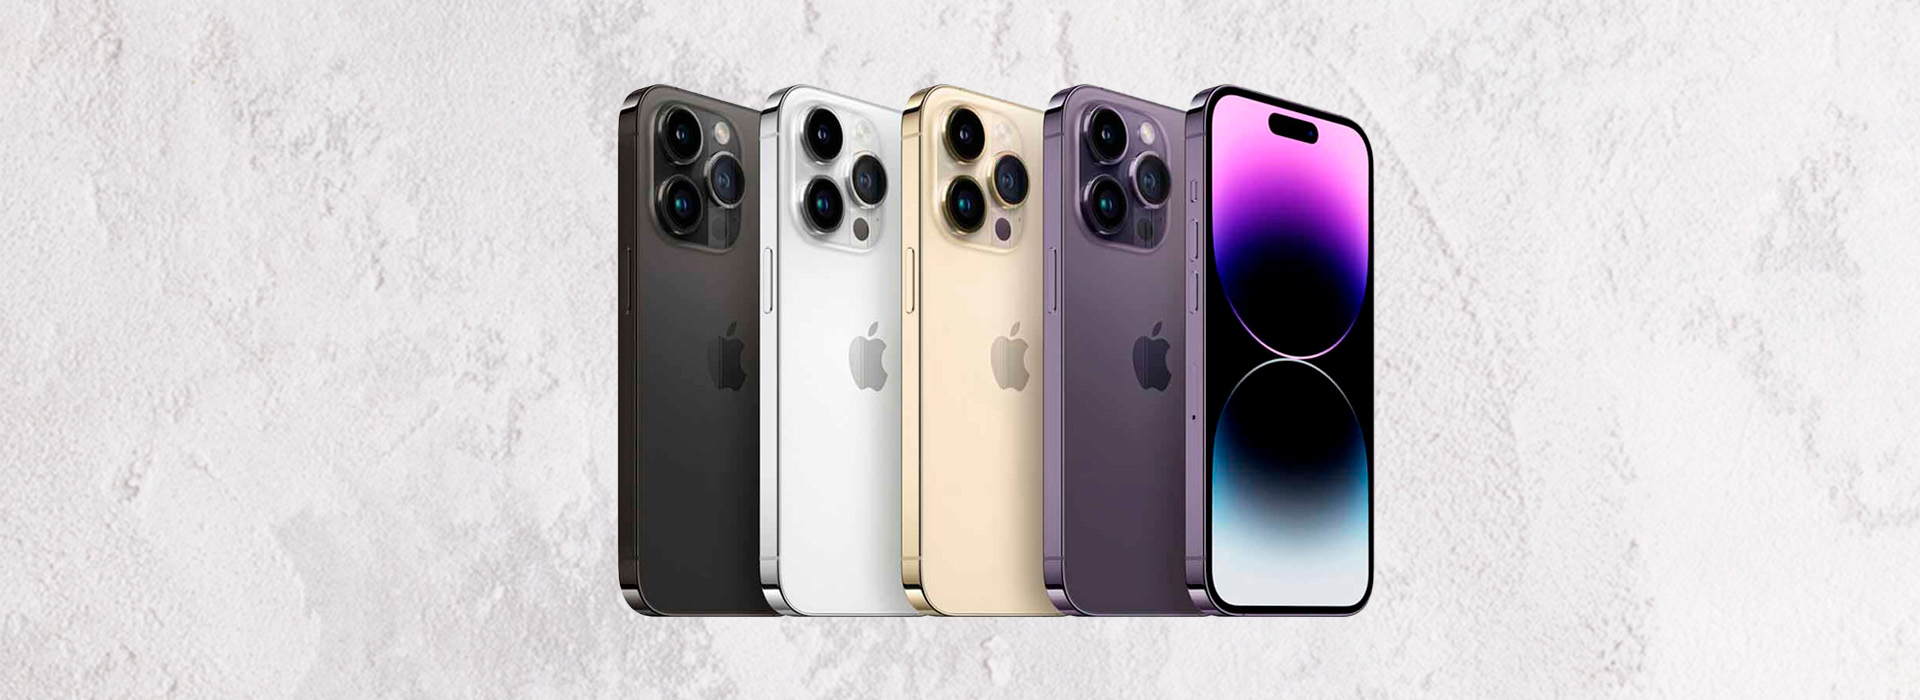
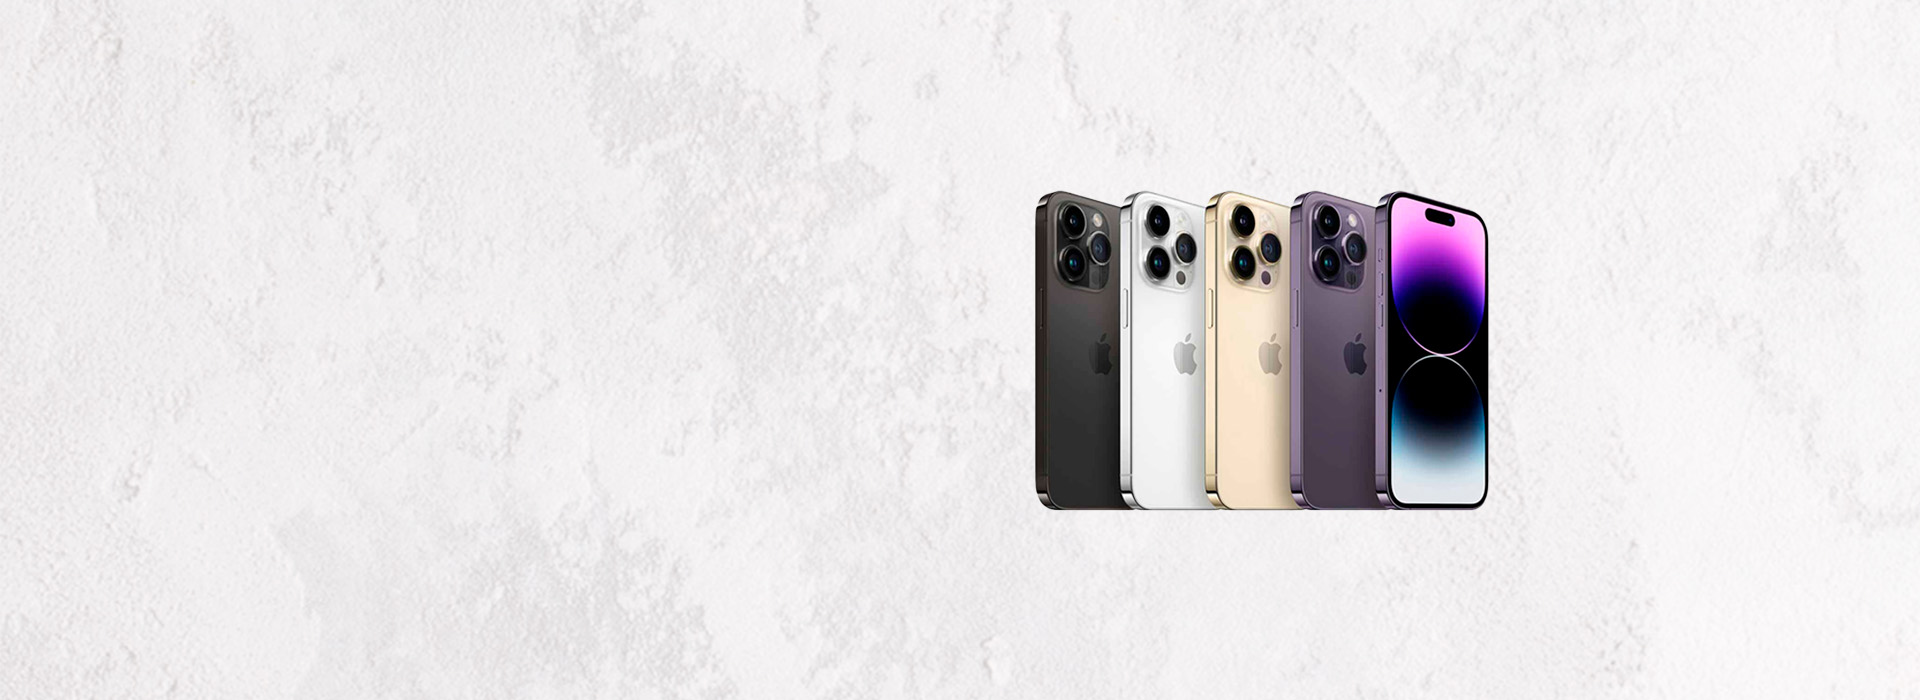
teste
Aula prática, explicação de banners

Changed region(s): [[0.3125, 0.12, 0.7812, 0.9]]

diff --git a/lançamento.html b/lançamento.html
@@ -43,7 +43,13 @@
 
         </section>
 
-        <section id="gestao"> </section>
+        <section id="gestao">
+
+            <h1>Cores Básicas Iphone 14</h1>
+
+            <p>Contando com o sistema operacional iOS, Apple traz seu modelo, <br> o Smartphone Apple iPhone 14 128GB Câmera Dupla. A tela de <br> tecnologia Super Retina XDR conta com 6.1' em resolução QHD. <br> As medidas do modelo são 14.67cm de altura e 7.15cm de largura, <br> com peso de 172.0g.</p>
+            
+        </section>
 
 
     </main>

diff --git a/lançamente.css b/lançamente.css
@@ -87,10 +87,21 @@
 
 #gestao{
     background-image: url(imagem/banner\ 2.jpg);
-    padding: 24rem;
+    padding: 10rem;
     background-position: center;
     background-repeat: no-repeat;
     background-size: cover;
+}
+
+#gestao h1{
+    color: rgba(0, 0, 0, 0.712);
+    font-size: 2em;
+
+}
+
+#gestao p{
+    font-size: 20px;
+    margin: 10px 10px 10px auto;
 }
 
 
